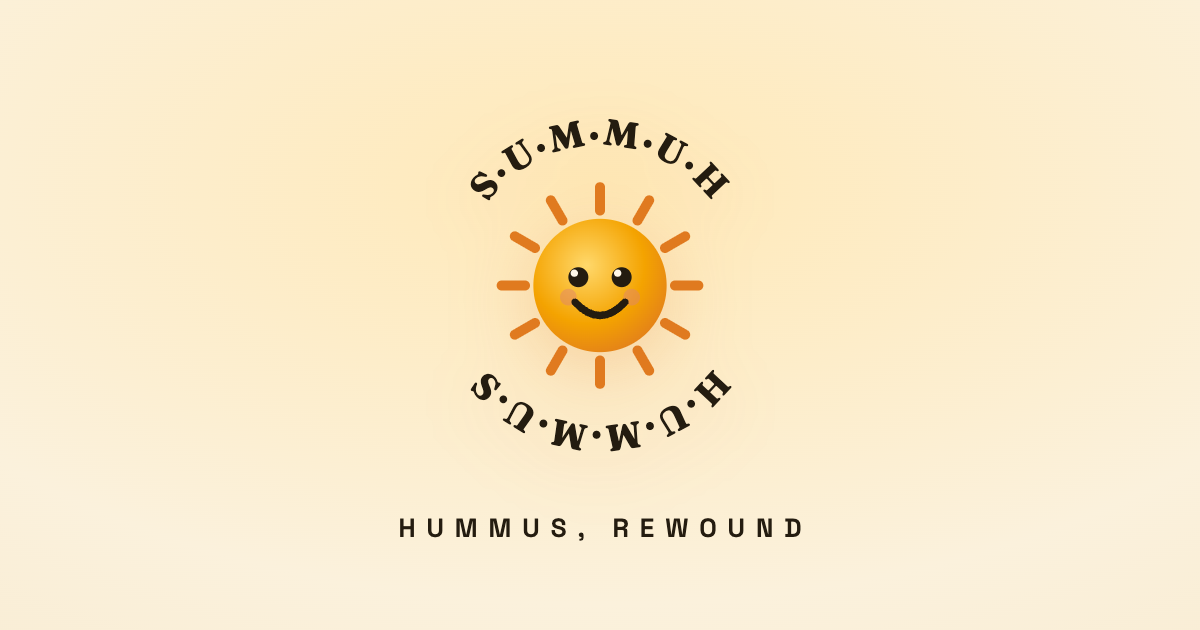
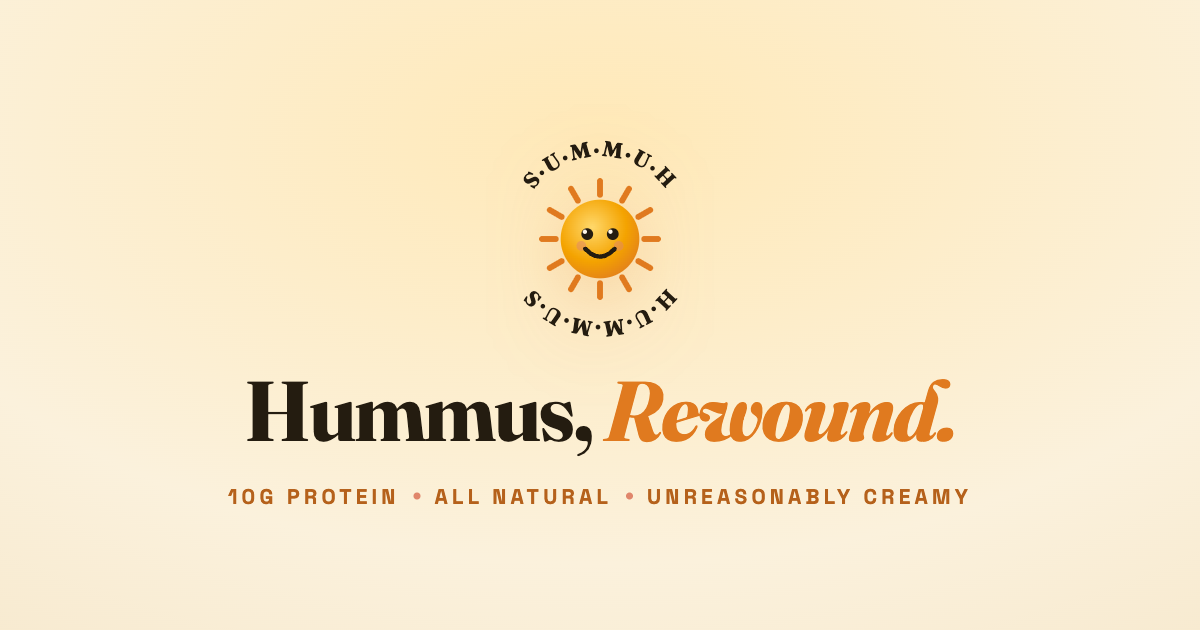
Bold cover thumbnail; fix mobile reveal bug (tall sections stayed blank); phone polish; Humptious

Changed region(s): [[0.185, 0.181, 0.8017, 0.7238], [0.185, 0.754, 0.8017, 0.8746]]

diff --git a/index.html b/index.html
@@ -48,7 +48,7 @@
 }
 
 *{box-sizing:border-box;margin:0;padding:0}
-html{scroll-behavior:smooth}
+html{scroll-behavior:smooth;scroll-padding-top:78px}
 body{
   font-family:'Space Grotesk',system-ui,sans-serif;
   background:var(--cream);
@@ -255,6 +255,34 @@ footer{background:var(--ink);color:var(--cream);padding:70px 0 40px}
 .foot-col a:hover{opacity:1;color:var(--gold)}
 .foot-bottom{margin-top:50px;padding-top:24px;border-top:1px solid rgba(251,241,220,.15);display:flex;justify-content:space-between;flex-wrap:wrap;gap:12px;font-size:.8rem;opacity:.6}
 .foot-bottom em{font-family:'Fraunces';font-style:italic}
+
+/* ---------- PHONE POLISH ---------- */
+@media(max-width:560px){
+  .wrap{padding:0 20px}
+  nav{padding:12px 18px}
+  nav.solid{padding:9px 18px}
+  .nav-brand{font-size:.98rem;gap:8px}
+  .nav-brand svg{width:26px;height:26px}
+  .nav-cta{padding:8px 14px;font-size:.78rem}
+  .pad{padding:62px 0}
+  .hero{padding:104px 20px 48px;min-height:auto}
+  .hero h1{font-size:clamp(2.6rem,13.5vw,3.6rem)}
+  .hero .tag{font-size:1.02rem}
+  .palindrome{font-size:.62rem;letter-spacing:.18em}
+  .section-head h2{font-size:clamp(1.85rem,8.5vw,2.5rem)}
+  .story-body p{font-size:1rem}
+  .story-body p:first-child::first-letter{font-size:3rem}
+  .pullquote{font-size:1.35rem;padding-left:18px}
+  .story-aside .big{font-size:3rem}
+  .macro{padding:24px}
+  .macro .num{font-size:2.7rem}
+  .score{padding:26px 16px}
+  .pillar h3{font-size:1.4rem}
+  .bio{padding:26px 22px}
+  .contact-card{padding:32px 22px}
+  .review-grid{columns:1;column-gap:0}
+  .btn{padding:13px 22px}
+}
 </style>
 </head>
 <body>
@@ -462,7 +490,7 @@ footer{background:var(--ink);color:var(--cream);padding:70px 0 40px}
       </div>
       <div class="pillar reveal d2">
         <svg class="ic" viewBox="0 0 48 48" fill="none" stroke="#F4D58A" stroke-width="2.4" stroke-linecap="round" stroke-linejoin="round"><path d="M14 18l-4 4 4 4M34 18l4 4-4 4"/><path d="M28 12l-8 24"/></svg>
-        <h3>Sum-diddly Humption.</h3>
+        <h3>Sum-diddly Humptious.</h3>
         <p>10g per serving — 59% more than traditional hummus. Built for vegetarians who lift, runners who snack, and anyone tracking macros without giving up flavor.</p>
       </div>
       <div class="pillar reveal d3">
@@ -634,19 +662,27 @@ function countUp(el){
 }
 
 /* ---- reveal + trigger animations ---- */
-const io=new IntersectionObserver((entries)=>{
-  entries.forEach(e=>{
-    if(!e.isIntersecting)return;
-    e.target.classList.add('in');
-    // counters within
-    e.target.querySelectorAll('[data-count]').forEach(countUp);
-    if(e.target.matches('[data-count]')) countUp(e.target);
-    // bars
-    e.target.querySelectorAll('.bar').forEach(b=>{b.querySelector('i').style.width=b.dataset.w+'%';});
-    io.unobserve(e.target);
+function revealEl(t){
+  if(t.classList.contains('in')) return;
+  t.classList.add('in');
+  t.querySelectorAll('[data-count]').forEach(countUp);
+  if(t.matches('[data-count]')) countUp(t);
+  t.querySelectorAll('.bar').forEach(b=>{b.querySelector('i').style.width=b.dataset.w+'%';});
+}
+// Scroll-based reveal: reliable even on fast flicks and for sections taller
+// than the viewport (where IntersectionObserver thresholds can fail on mobile).
+function checkReveal(){
+  const atBottom = innerHeight + scrollY >= document.documentElement.scrollHeight - 3;
+  const trigger = innerHeight * 0.88;
+  document.querySelectorAll('.reveal:not(.in)').forEach(el=>{
+    if(atBottom || el.getBoundingClientRect().top < trigger) revealEl(el);
   });
-},{threshold:.2});
-document.querySelectorAll('.reveal').forEach(el=>io.observe(el));
+}
+let ticking=false;
+addEventListener('scroll',()=>{ if(!ticking){ticking=true; requestAnimationFrame(()=>{checkReveal();ticking=false;});} },{passive:true});
+addEventListener('resize',checkReveal,{passive:true});
+addEventListener('load',checkReveal);
+checkReveal();
 
 /* ---- waitlist (Formspree) ----
    1. Create a free form at https://formspree.io  (sends signups to your inbox + dashboard)